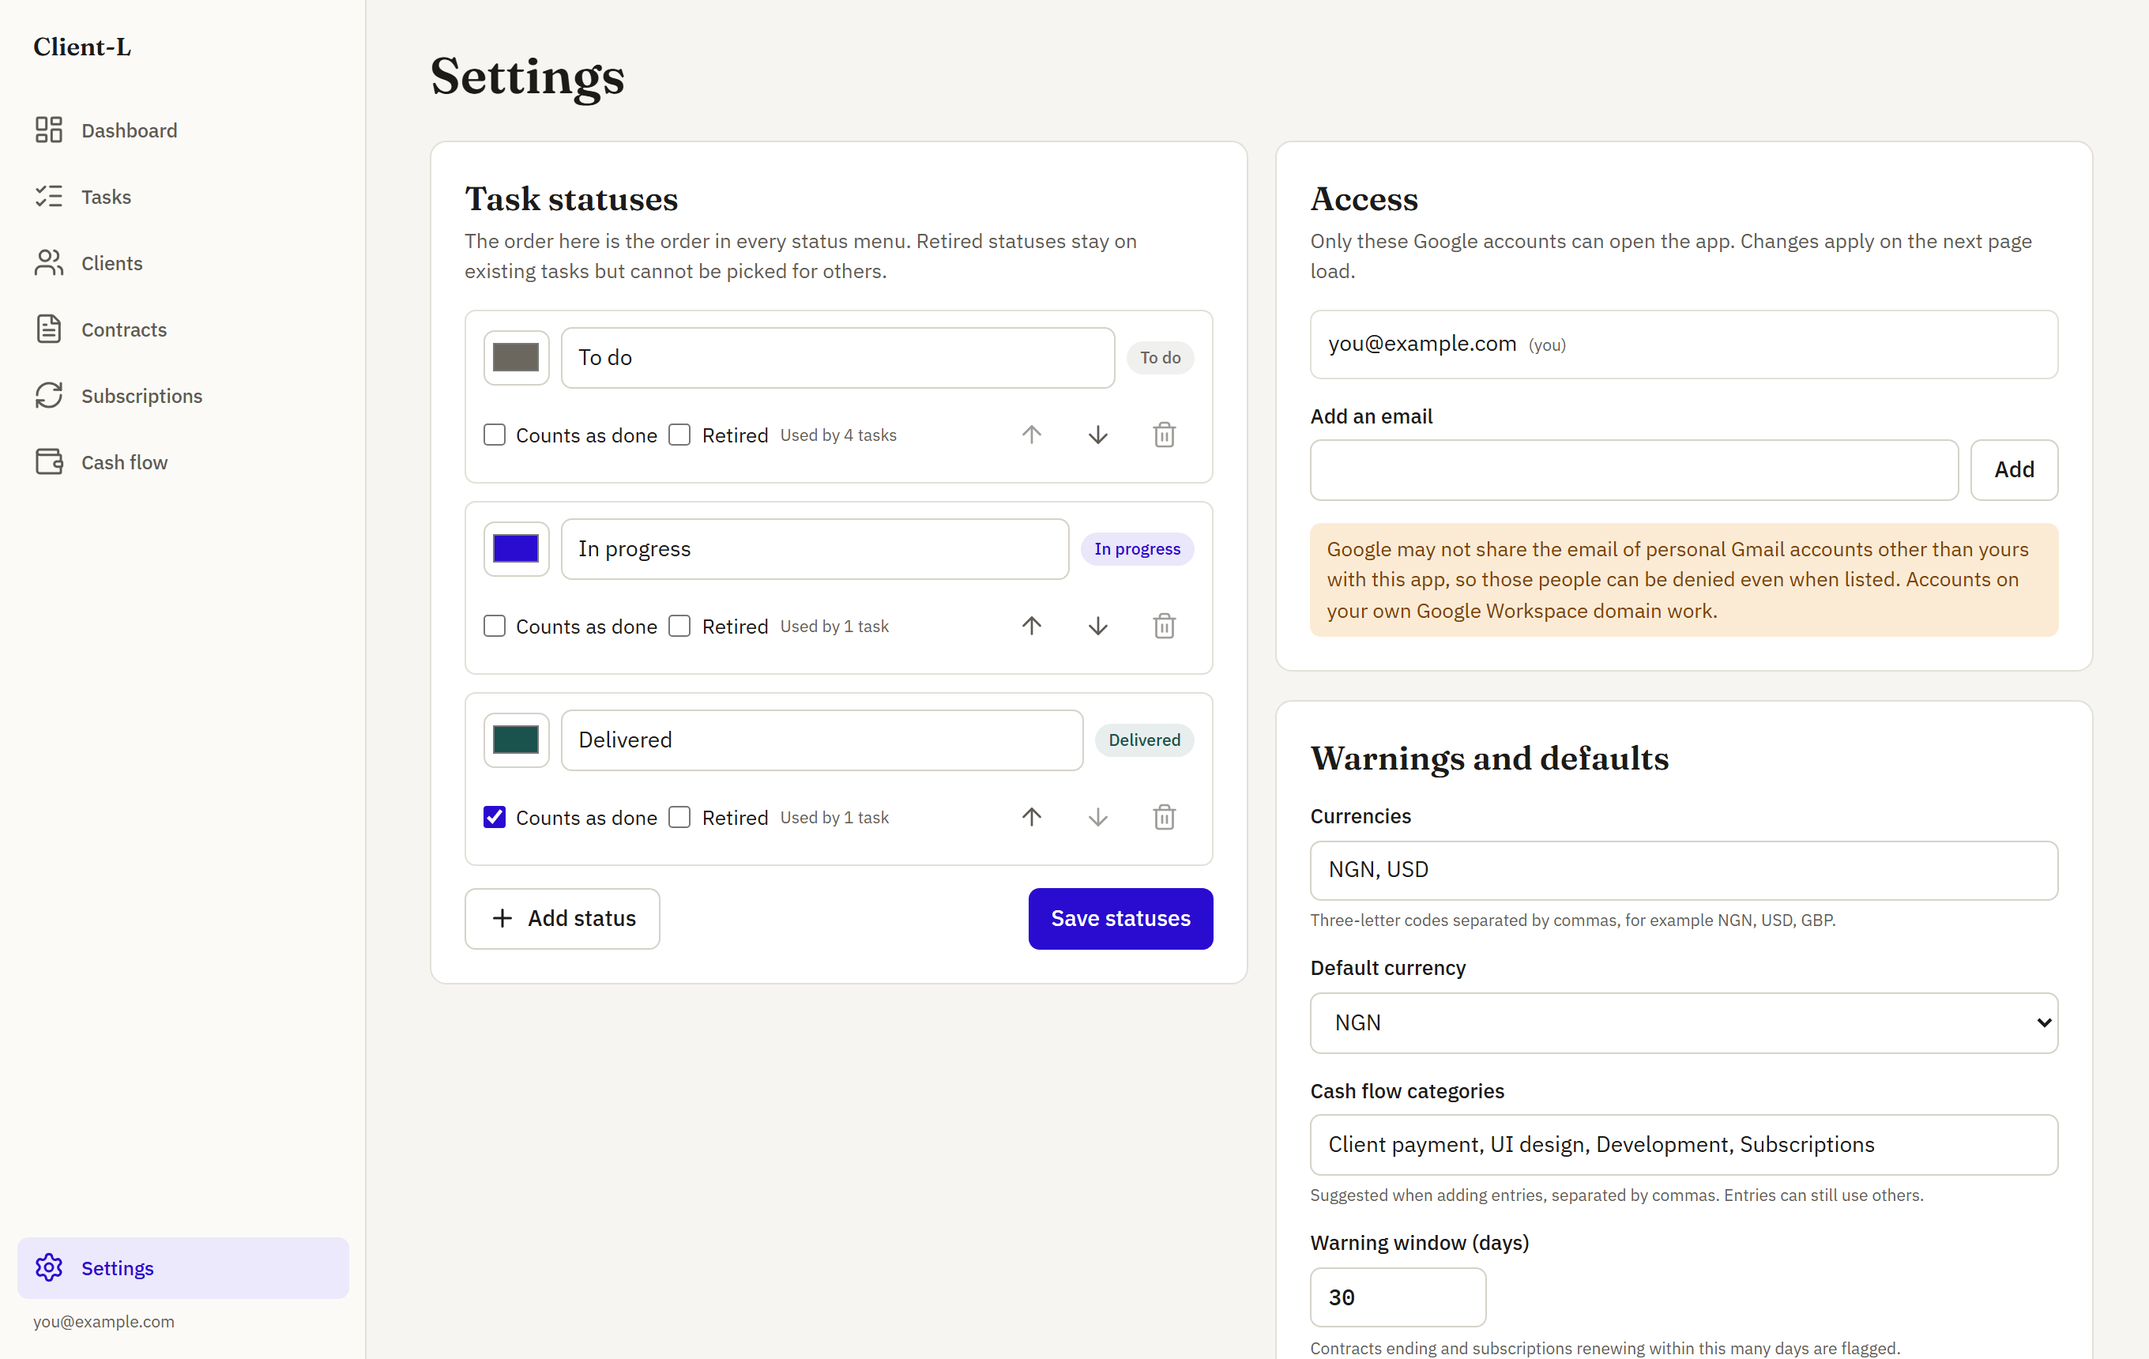
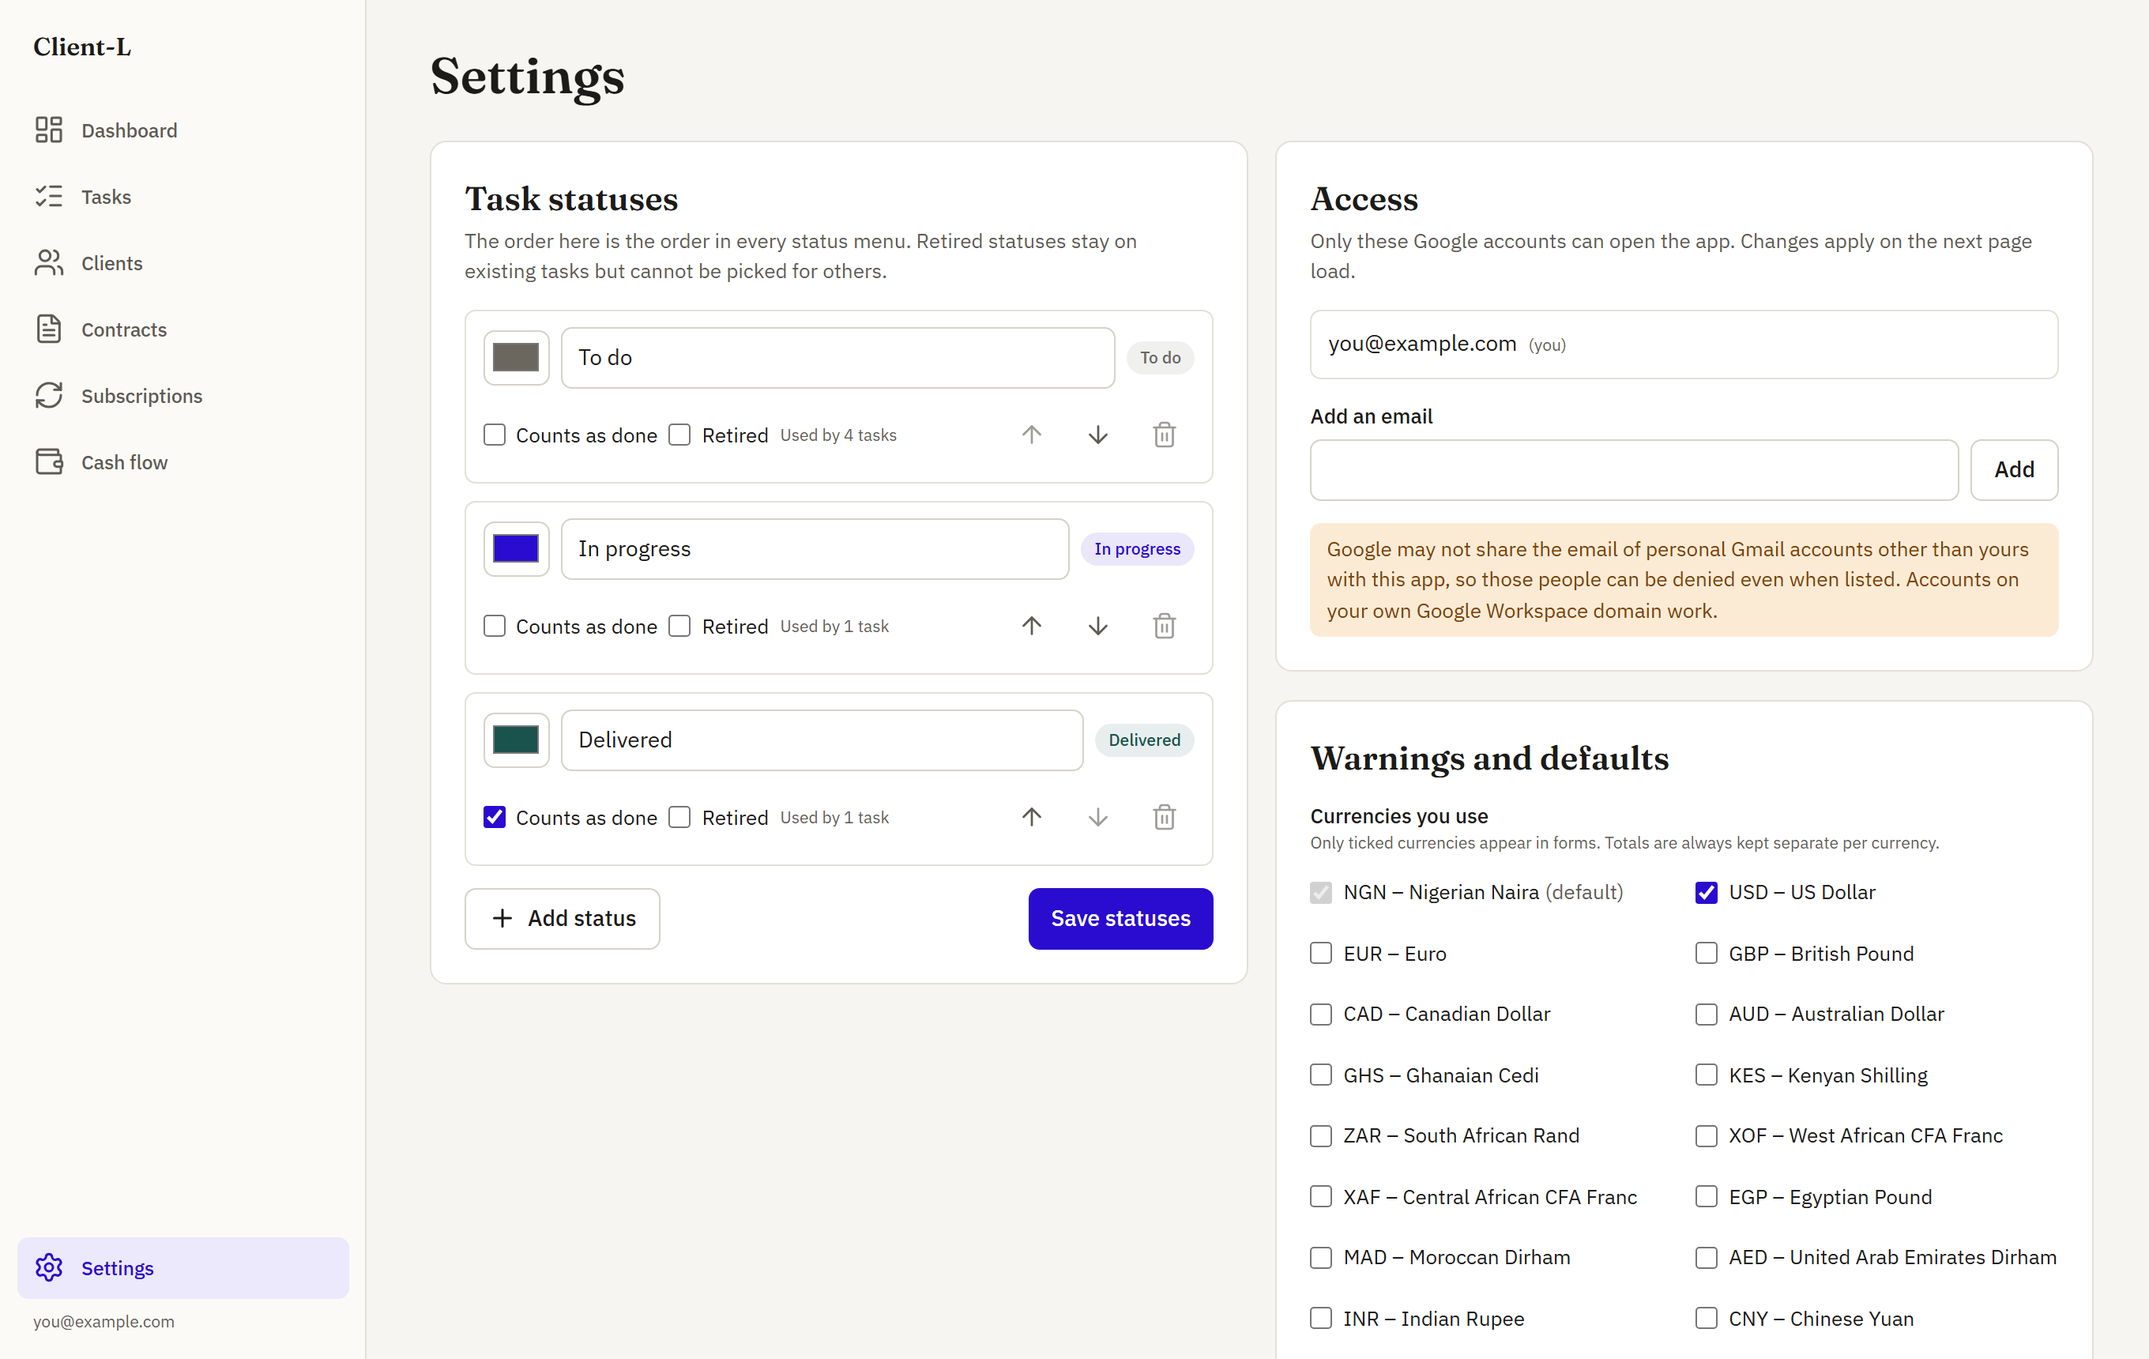
feat: choose currencies from a list or add any code
Settings shows tick boxes for common currencies with their names, plus
an Add another currency field for any 3-letter code. New copies start
with USD, EUR and GBP; existing sheets keep their list. README explains
that more currencies can be added.

Changed region(s): [[0.5938, 0.5855, 0.9062, 1.0], [0.7812, 0.7395, 0.9062, 0.8012]]

diff --git a/src/client/features/settings/CurrencyPicker.tsx b/src/client/features/settings/CurrencyPicker.tsx
@@ -1,0 +1,102 @@
+import { useState } from 'react';
+import { COMMON_CURRENCIES, normaliseCodes } from '../../../shared/currencies';
+import { Button } from '../../components/ui/button';
+import { describedBy, Field, Input } from '../../components/ui/form';
+
+interface CurrencyPickerProps {
+  selected: string[];
+  defaultCurrency: string;
+  onChange: (codes: string[]) => void;
+}
+
+const ADD_HINT = 'Any 3-letter ISO currency code, for example SEK or BRL.';
+
+/** "GBP – British Pound", or just the code where the browser has no name for it. */
+export function currencyName(code: string): string {
+  try {
+    const name = new Intl.DisplayNames(['en'], { type: 'currency' }).of(code);
+    return name && name !== code ? `${code} – ${name}` : code;
+  } catch (error) {
+    if (error instanceof RangeError) return code;
+    throw error;
+  }
+}
+
+/** Tick the currencies you use; only those are offered in forms. The default is always kept. */
+export function CurrencyPicker({ selected, defaultCurrency, onChange }: CurrencyPickerProps) {
+  const [extra, setExtra] = useState('');
+  const [extraError, setExtraError] = useState('');
+  const options = normaliseCodes([...COMMON_CURRENCIES, ...selected]);
+
+  const toggle = (code: string, on: boolean) =>
+    onChange(on ? normaliseCodes([...selected, code]) : selected.filter((c) => c !== code));
+
+  const add = () => {
+    const code = extra.trim().toUpperCase();
+    if (!/^[A-Z]{3}$/.test(code)) {
+      setExtraError('Enter a 3-letter currency code, such as SEK.');
+      return;
+    }
+    setExtraError('');
+    setExtra('');
+    onChange(normaliseCodes([...selected, code]));
+  };
+
+  return (
+    <div className="flex flex-col gap-3">
+      <fieldset className="flex flex-col gap-2">
+        <legend className="text-[13px] font-medium">Currencies you use</legend>
+        <p className="text-xs text-text-muted">
+          Only ticked currencies appear in forms. Totals are always kept separate per currency.
+        </p>
+        <div className="grid gap-x-4 gap-y-1 sm:grid-cols-2">
+          {options.map((code) => {
+            const isDefault = code === defaultCurrency;
+            return (
+              <label key={code} className="flex min-h-10 items-center gap-2 text-[13px]">
+                <input
+                  type="checkbox"
+                  className="size-4 accent-accent"
+                  checked={isDefault || selected.includes(code)}
+                  disabled={isDefault}
+                  onChange={(e) => toggle(code, e.target.checked)}
+                />
+                <span>
+                  {currencyName(code)}
+                  {isDefault && <span className="ml-1 text-text-muted">(default)</span>}
+                </span>
+              </label>
+            );
+          })}
+        </div>
+      </fieldset>
+      <Field
+        id="currency-extra"
+        label="Add another currency"
+        optional
+        hint={ADD_HINT}
+        error={extraError}
+      >
+        <div className="flex gap-2">
+          <Input
+            id="currency-extra"
+            value={extra}
+            maxLength={3}
+            className="w-28 font-mono uppercase"
+            aria-invalid={Boolean(extraError)}
+            aria-describedby={describedBy('currency-extra', extraError, ADD_HINT)}
+            onChange={(e) => setExtra(e.target.value)}
+            onKeyDown={(e) => {
+              if (e.key !== 'Enter') return;
+              e.preventDefault();
+              add();
+            }}
+          />
+          <Button variant="secondary" onClick={add}>
+            Add
+          </Button>
+        </div>
+      </Field>
+    </div>
+  );
+}

diff --git a/src/client/features/settings/DefaultsForm.tsx b/src/client/features/settings/DefaultsForm.tsx
@@ -5,33 +5,21 @@ import { ErrorAlert, StatusBanner } from '../../components/ui/feedback';
 import { describedBy, Field, Input, Select } from '../../components/ui/form';
 import { errorMessage, fieldErrors } from '../../lib/api';
 import { useSaveDefaults } from '../../lib/renewalQueries';
+import { CurrencyPicker, currencyName } from './CurrencyPicker';
 
-const CURRENCY_HINT = 'Three-letter codes separated by commas, for example NGN, USD, GBP.';
 const CATEGORY_HINT =
   'Suggested when adding entries, separated by commas. Entries can still use others.';
 const WINDOW_HINT =
   'Contracts ending and subscriptions renewing within this many days are flagged.';
 
-function parseCodes(text: string): string[] {
-  return [
-    ...new Set(
-      text
-        .split(/[,;\s]+/)
-        .map((c) => c.trim().toUpperCase())
-        .filter(Boolean),
-    ),
-  ];
-}
-
 export function DefaultsForm({ bootstrap }: { bootstrap: Bootstrap }) {
   const save = useSaveDefaults();
-  const [codes, setCodes] = useState(bootstrap.currencies.join(', '));
+  const [currencies, setCurrencies] = useState(bootstrap.currencies);
   const [defaultCurrency, setDefaultCurrency] = useState(bootstrap.defaultCurrency);
   const [days, setDays] = useState(String(bootstrap.warningDays));
   const [categories, setCategories] = useState(bootstrap.categories.join(', '));
   const [saved, setSaved] = useState(false);
-  const list = parseCodes(codes);
-  const choices = list.includes(defaultCurrency) ? list : [defaultCurrency, ...list];
+  const list = currencies.includes(defaultCurrency) ? currencies : [defaultCurrency, ...currencies];
   const fields = fieldErrors(save.error);
 
   const submit = (event: FormEvent) => {
@@ -60,31 +48,24 @@ export function DefaultsForm({ bootstrap }: { bootstrap: Bootstrap }) {
         Warnings and defaults
       </h2>
       <form onSubmit={submit} noValidate className="flex flex-col gap-4">
-        <Field
-          id="defaults-currencies"
-          label="Currencies"
-          hint={CURRENCY_HINT}
-          error={fields['currencies'] ?? fields['currencies.0']}
-        >
-          <Input
-            id="defaults-currencies"
-            value={codes}
-            onChange={(e) => setCodes(e.target.value)}
-            aria-describedby={describedBy(
-              'defaults-currencies',
-              fields['currencies'],
-              CURRENCY_HINT,
-            )}
-          />
-        </Field>
+        <CurrencyPicker
+          selected={list}
+          defaultCurrency={defaultCurrency}
+          onChange={setCurrencies}
+        />
+        {(fields['currencies'] ?? fields['currencies.0']) && (
+          <ErrorAlert>{fields['currencies'] ?? fields['currencies.0']}</ErrorAlert>
+        )}
         <Field id="defaults-currency" label="Default currency" error={fields['defaultCurrency']}>
           <Select
             id="defaults-currency"
             value={defaultCurrency}
             onChange={(e) => setDefaultCurrency(e.target.value)}
           >
-            {choices.map((code) => (
-              <option key={code}>{code}</option>
+            {list.map((code) => (
+              <option key={code} value={code}>
+                {currencyName(code)}
+              </option>
             ))}
           </Select>
         </Field>

diff --git a/src/client/features/settings/CurrencyPicker.test.tsx b/src/client/features/settings/CurrencyPicker.test.tsx
@@ -1,0 +1,62 @@
+import { screen, within } from '@testing-library/react';
+import { describe, expect, it } from 'vitest';
+import { created, primaryAction, renderApp } from '../../testing/renderApp';
+
+async function currencyGroup() {
+  return within(await screen.findByRole('group', { name: 'Currencies you use' }));
+}
+
+describe('Currency choices in Settings', () => {
+  it('starts a new copy with a few common currencies ticked and the default locked on', async () => {
+    renderApp({ hash: '/settings' });
+    const group = await currencyGroup();
+    const usd = group.getByRole('checkbox', { name: /^USD/ });
+    expect(usd).toBeChecked();
+    expect(usd).toBeDisabled();
+    expect(group.getByRole('checkbox', { name: /^GBP/ })).toBeChecked();
+    expect(group.getByRole('checkbox', { name: /^NGN/ })).not.toBeChecked();
+  });
+
+  it('adds a common currency and a custom code, and forms offer both', async () => {
+    const { user, server } = renderApp({
+      hash: '/settings',
+      seed: (s) => void created(s.api.saveClient({ name: 'Acme' })),
+    });
+    const group = await currencyGroup();
+    await user.click(group.getByRole('checkbox', { name: /^KES/ }));
+    await user.type(screen.getByLabelText(/Add another currency/), 'sek');
+    await user.click(
+      within(screen.getByRole('region', { name: 'Warnings and defaults' })).getByRole('button', {
+        name: 'Add',
+      }),
+    );
+    expect(group.getByRole('checkbox', { name: /^SEK/ })).toBeChecked();
+    await user.click(screen.getByRole('button', { name: 'Save defaults' }));
+    expect(await screen.findByText('Defaults saved.')).toBeInTheDocument();
+    const settings = server.api.getBootstrap();
+    expect(settings.ok && settings.data.currencies).toEqual(
+      expect.arrayContaining(['USD', 'EUR', 'GBP', 'KES', 'SEK']),
+    );
+
+    window.location.hash = '/cashflow';
+    await screen.findByRole('heading', { name: 'Cash flow', level: 1 });
+    await user.click(primaryAction('Add entry'));
+    const dialog = await screen.findByRole('dialog', { name: 'Add entry' });
+    const options = within(within(dialog).getByLabelText('Currency'))
+      .getAllByRole('option')
+      .map((o) => o.textContent);
+    expect(options).toEqual(expect.arrayContaining(['KES', 'SEK']));
+  });
+
+  it('rejects a code that is not three letters', async () => {
+    const { user } = renderApp({ hash: '/settings' });
+    await currencyGroup();
+    await user.type(screen.getByLabelText(/Add another currency/), 'US');
+    await user.click(
+      within(screen.getByRole('region', { name: 'Warnings and defaults' })).getByRole('button', {
+        name: 'Add',
+      }),
+    );
+    expect(screen.getByText('Enter a 3-letter currency code, such as SEK.')).toBeInTheDocument();
+  });
+});

diff --git a/src/shared/currencies.ts b/src/shared/currencies.ts
@@ -1,0 +1,34 @@
+/**
+ * Currencies offered as tick boxes in Settings. Any other ISO 4217 code can still be added by hand,
+ * so this list is a convenience, not a limit.
+ */
+export const COMMON_CURRENCIES = [
+  'NGN',
+  'USD',
+  'EUR',
+  'GBP',
+  'CAD',
+  'AUD',
+  'GHS',
+  'KES',
+  'ZAR',
+  'XOF',
+  'XAF',
+  'EGP',
+  'MAD',
+  'AED',
+  'INR',
+  'CNY',
+  'JPY',
+  'CHF',
+] as const;
+
+/** Ticked in a brand-new copy, alongside whatever the default currency is. */
+export const STARTER_CURRENCIES = ['USD', 'EUR', 'GBP'];
+
+const CODE = /^[A-Z]{3}$/;
+
+/** Upper-cases, drops anything that is not a 3-letter code, and removes duplicates. */
+export function normaliseCodes(codes: string[]): string[] {
+  return [...new Set(codes.map((c) => c.trim().toUpperCase()).filter((c) => CODE.test(c)))];
+}

diff --git a/src/server/settings.ts b/src/server/settings.ts
@@ -1,4 +1,5 @@
 import { z } from 'zod';
+import { STARTER_CURRENCIES } from '../shared/currencies';
 import { statusSchema } from '../shared/schemas';
 import { DEFAULT_STATUSES } from '../shared/statuses';
 import type { Status } from '../shared/types';
@@ -24,7 +25,7 @@ export const DEFAULT_SETTINGS: Record<string, string> = {
   [SETTING_KEYS.allowedEmails]: '',
   [SETTING_KEYS.taskStatuses]: JSON.stringify(DEFAULT_STATUSES),
   [SETTING_KEYS.defaultCurrency]: 'USD',
-  [SETTING_KEYS.currencies]: '',
+  [SETTING_KEYS.currencies]: STARTER_CURRENCIES.join(', '),
   [SETTING_KEYS.categories]: DEFAULT_CATEGORIES.join(', '),
   [SETTING_KEYS.expiryWarningDays]: '30',
   [SETTING_KEYS.appName]: 'Client-L',

diff --git a/src/client/features/settings/SettingsPage.test.tsx b/src/client/features/settings/SettingsPage.test.tsx
@@ -48,7 +48,9 @@ describe('Settings screen', () => {
   it('adds an email to the access list', async () => {
     const { user, server } = renderApp({ hash: '/settings' });
     await user.type(await screen.findByLabelText('Add an email'), 'Partner@Example.com');
-    await user.click(screen.getByRole('button', { name: 'Add' }));
+    await user.click(
+      within(screen.getByRole('region', { name: 'Access' })).getByRole('button', { name: 'Add' }),
+    );
     await waitFor(() =>
       expect(screen.getByRole('list', { name: 'Allowed emails' })).toHaveTextContent(
         'partner@example.com',

diff --git a/src/shared/currencies.test.ts b/src/shared/currencies.test.ts
@@ -1,0 +1,16 @@
+import { describe, expect, it } from 'vitest';
+import { COMMON_CURRENCIES, normaliseCodes, STARTER_CURRENCIES } from './currencies';
+
+describe('currencies', () => {
+  it('cleans codes: upper-case, 3 letters only, no duplicates', () => {
+    expect(normaliseCodes([' ngn', 'USD', 'usd', 'US', 'EURO', 'gbp'])).toEqual([
+      'NGN',
+      'USD',
+      'GBP',
+    ]);
+  });
+
+  it('only starts new copies with currencies that are in the common list', () => {
+    for (const code of STARTER_CURRENCIES) expect(COMMON_CURRENCIES).toContain(code);
+  });
+});

diff --git a/README.md b/README.md
@@ -104,6 +104,21 @@ It takes effect on their next page load; no redeploy is needed. Google does not 
 email of personal Gmail accounts with an app run by someone else, so people outside your own
 Google Workspace domain may still be denied.
 
+## Currencies
+
+Client-L works with several currencies side by side. Under **Settings > Warnings and defaults**:
+
+- **Tick the currencies you use** from the list of common ones (naira, US dollar, euro, pound,
+  cedi, shilling, rand, CFA franc and more). Only ticked currencies appear in the contract,
+  subscription and cash flow forms. A new copy starts with USD, EUR and GBP ticked.
+- **Add any other currency** that is not in the list by typing its 3-letter ISO code (for example
+  `SEK` or `BRL`) under **Add another currency**. You can add as many as you need.
+- **Pick your default currency**, which new entries start with and which the dashboard totals use.
+
+Totals are always kept separate per currency and never added together; the Cash flow screen has a
+currency switch. Unticking a currency hides it from new entries but keeps it on existing ones.
+You can also edit the `Currencies` row in the Settings tab directly, as codes separated by commas.
+
 ## Importing an existing sheet
 
 In your old sheet choose **File > Download > Comma-separated values (.csv)**. In the app open

diff --git a/CLAUDE.md b/CLAUDE.md
@@ -119,7 +119,10 @@ TypeScript and bundled with esbuild.
 - Auto-renew subscriptions still show Overdue after their date until Mark renewed is used.
 - Subscriptions keep a `Billing day` so monthly renewals return to the original day
   (31 Jan → 28 Feb → 31 Mar), and a `Rebill due` date that shows "Charge client" until cleared.
-- Currencies come from the `Currencies` setting, with the default currency always first.
+- Currencies come from the `Currencies` setting, with the default currency always first. Settings
+  offers tick boxes for `COMMON_CURRENCIES` (`src/shared/currencies.ts`) plus any 3-letter code;
+  new copies start with `STARTER_CURRENCIES`. Existing records may keep a currency that is later
+  unticked.
 - The `Transactions` tab stores Type (Inflow/Outflow) plus a positive Amount. Mark renewed can log
   one Outflow in category `Subscriptions`.
 - Cash flow totals and the 6-month chart show one currency at a time (currency switch, default

diff --git a/CHANGELOG.md b/CHANGELOG.md
@@ -25,7 +25,9 @@ All notable changes to this project are documented here. The format follows
   one cycle (keeping the billing day) and can log the payment as an outflow. Rebilled items show a
   Charge client reminder until marked charged. Cancelled items stay in the history.
 - Client pages list the client's contracts and subscriptions.
-- Settings: choose your currencies, default currency and the warning window.
+- Settings: tick the currencies you use from a list of common ones, add any other 3-letter
+  currency code, and choose the default currency and the warning window. New copies start with USD,
+  EUR and GBP.
 - Cash flow: log money in and out with date, amount, currency, category, client and reference.
   Monthly inflow, outflow and net per currency, a 6-month chart (also shown as a table), and
   filters by month, all time, no date, type, client and category. Entries can be edited or voided.
